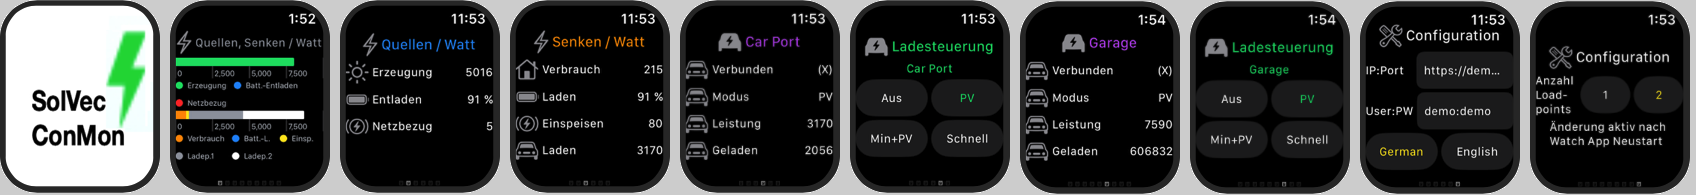
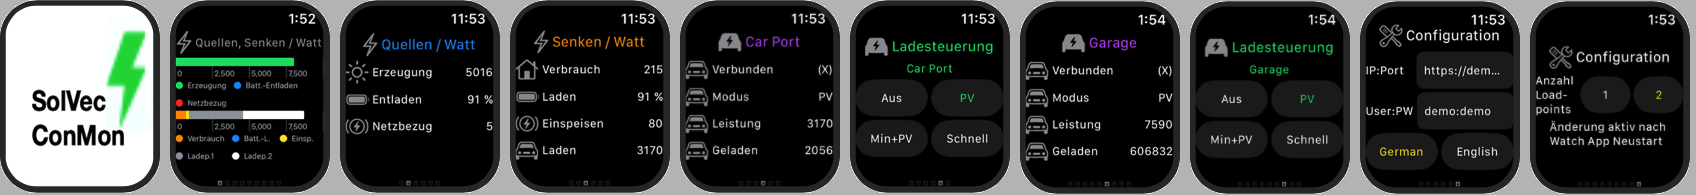
v1.6. update 1

Changed region(s): [[0.0, 0.0, 1.0, 1.0], [0.0, 0.0, 0.0312, 0.0923]]

diff --git a/index.html b/index.html
@@ -101,7 +101,7 @@ href="file:///Users/fraundorfer/Documents/JFR-Shared%20Documents/Development/Git
           width="120"></a><br>
     </font><br>
     <img moz-do-not-send="true" src="tab-images.png" alt="Apple Watch
-      Images" height="197" width="1200"><br>
+      Images" height="197" width="1607"><br>
     <br>
     <p style="margin:0in;font-family:Calibri;font-size:11.0pt">
       <meta http-equiv="Content-Type" content="text/html;
